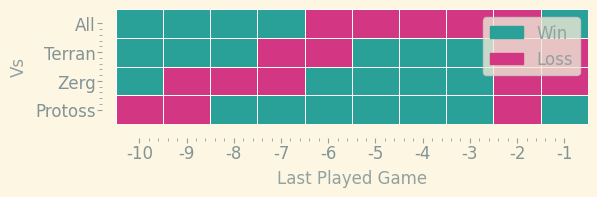
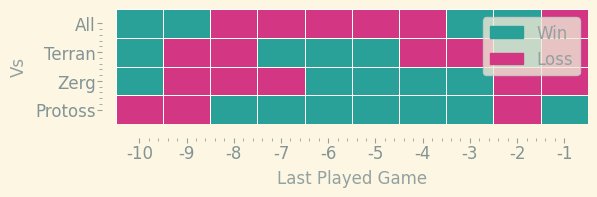
running on push

Changed region(s): [[0.2714, 0.0305, 0.603, 0.3655], [0.6633, 0.0305, 0.995, 0.3655]]

diff --git a/docs/index.md b/docs/index.md
@@ -18,7 +18,7 @@ layout: home
   <tbody>
     <tr>
       <td>Matches Played</td>
-      <td>1635</td>
+      <td>1637</td>
     </tr>
     <tr>
       <td>MMR Gained</td>
@@ -26,7 +26,7 @@ layout: home
     </tr>
     <tr>
       <td>MMR lost</td>
-      <td>14015</td>
+      <td>14047</td>
     </tr>
     <tr>
       <td>Max MMR</td>
@@ -115,7 +115,7 @@ layout: home
 | Race    |   Wins |   Losses |   Total |   Win Rate (%) |   MMR Gained |   MMR Lost |
 |:--------|-------:|---------:|--------:|---------------:|-------------:|-----------:|
 | Protoss |    272 |      377 |     649 |        41.9106 |         4927 |       5875 |
-| Terran  |    183 |      219 |     402 |        45.5224 |         4037 |       3143 |
+| Terran  |    184 |      220 |     404 |        45.5446 |         4037 |       3143 |
 | Zerg    |    317 |      234 |     551 |        57.5318 |         4831 |       4704 |
 
 ![Games by Race](./assets/gm_hist.png)
